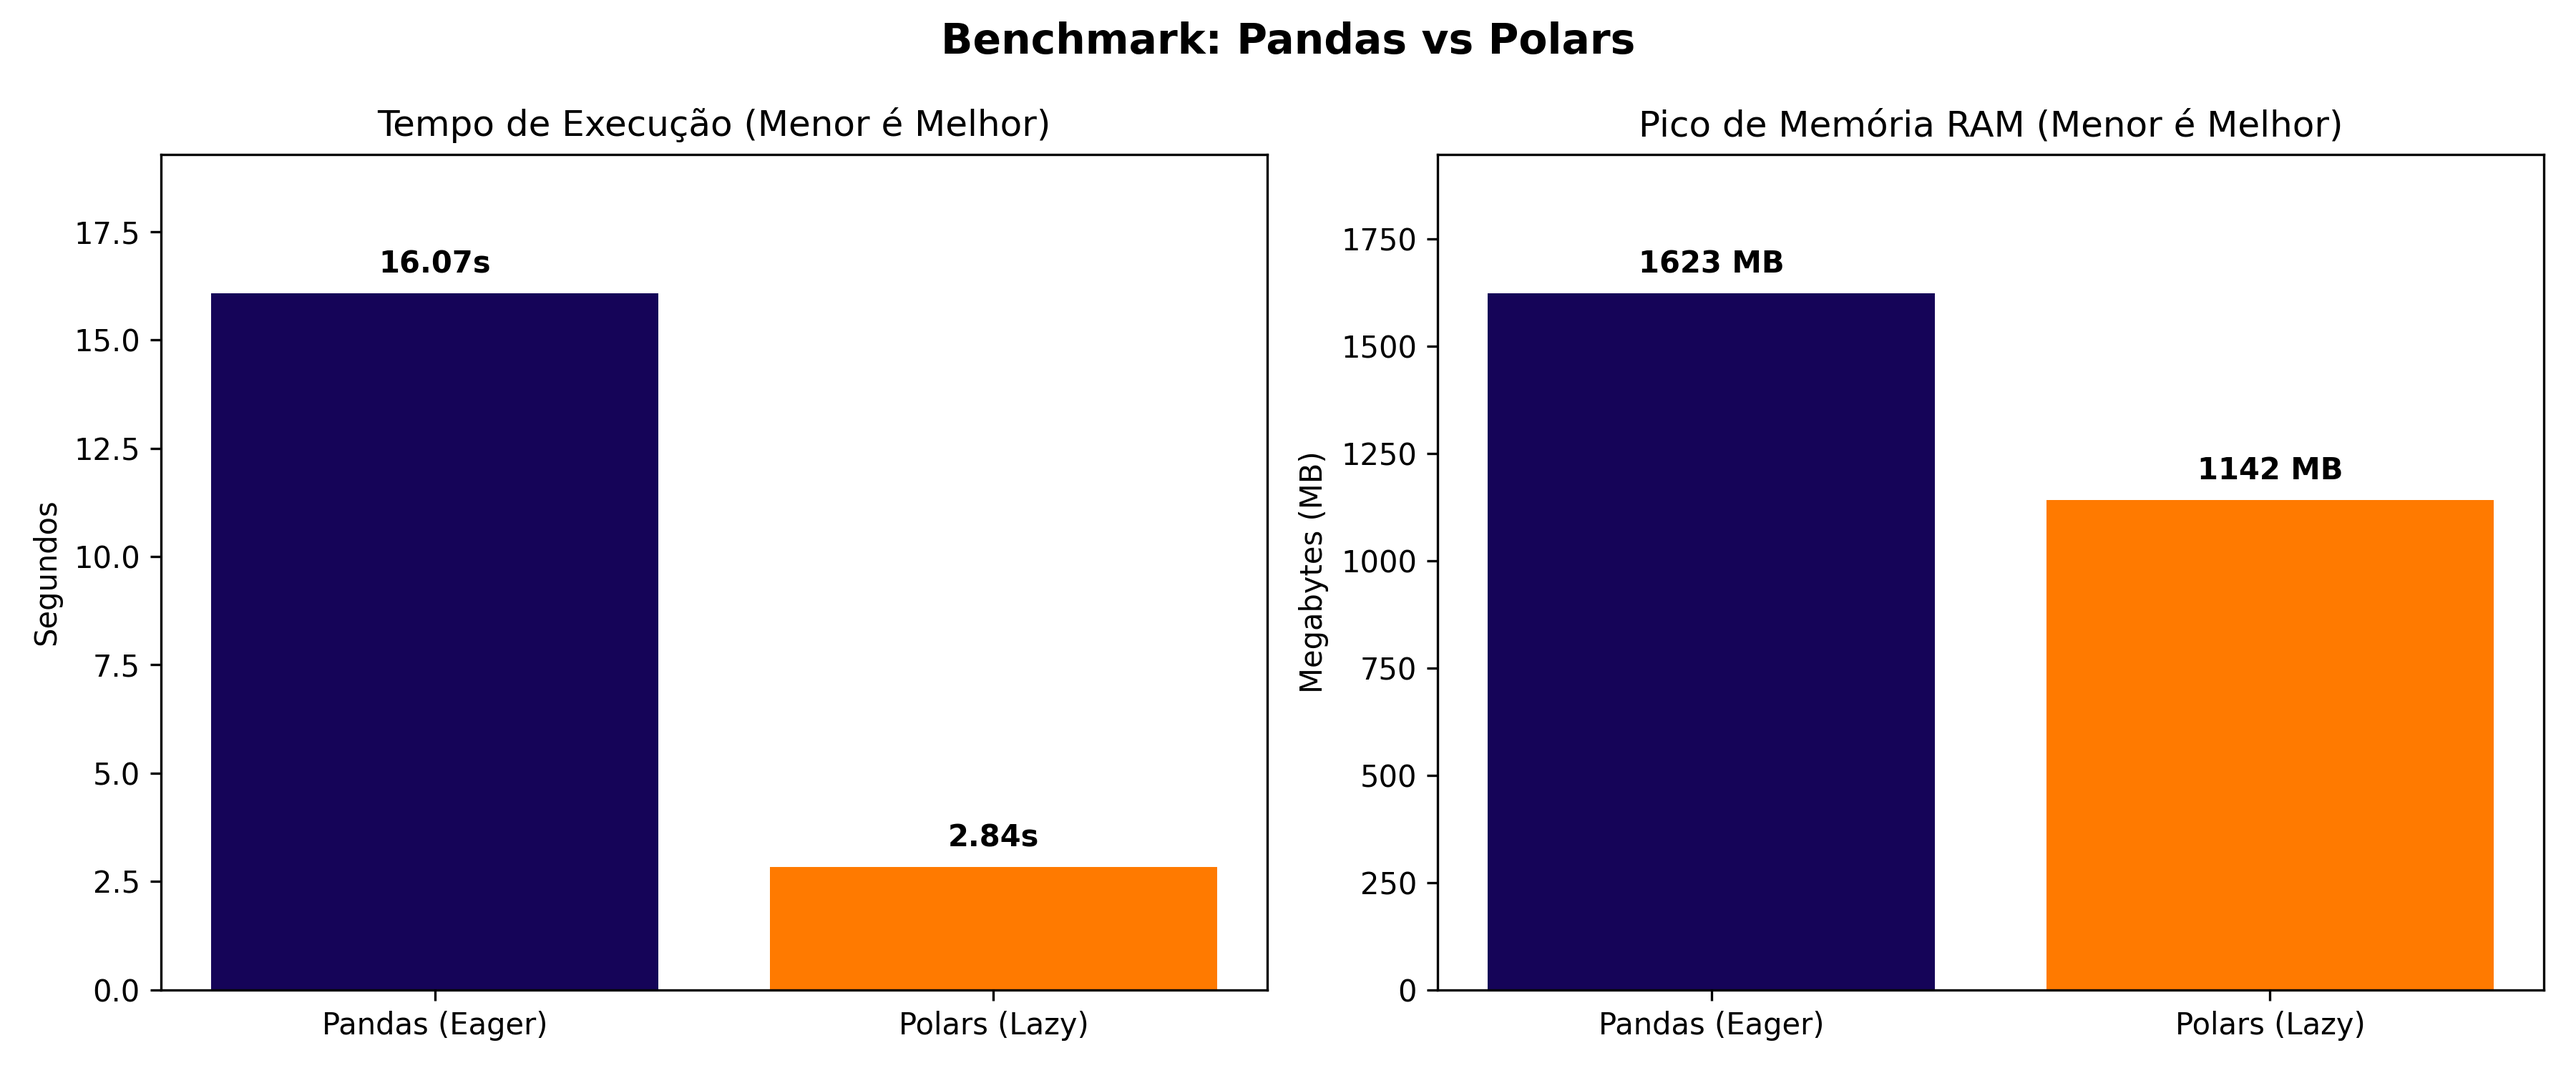
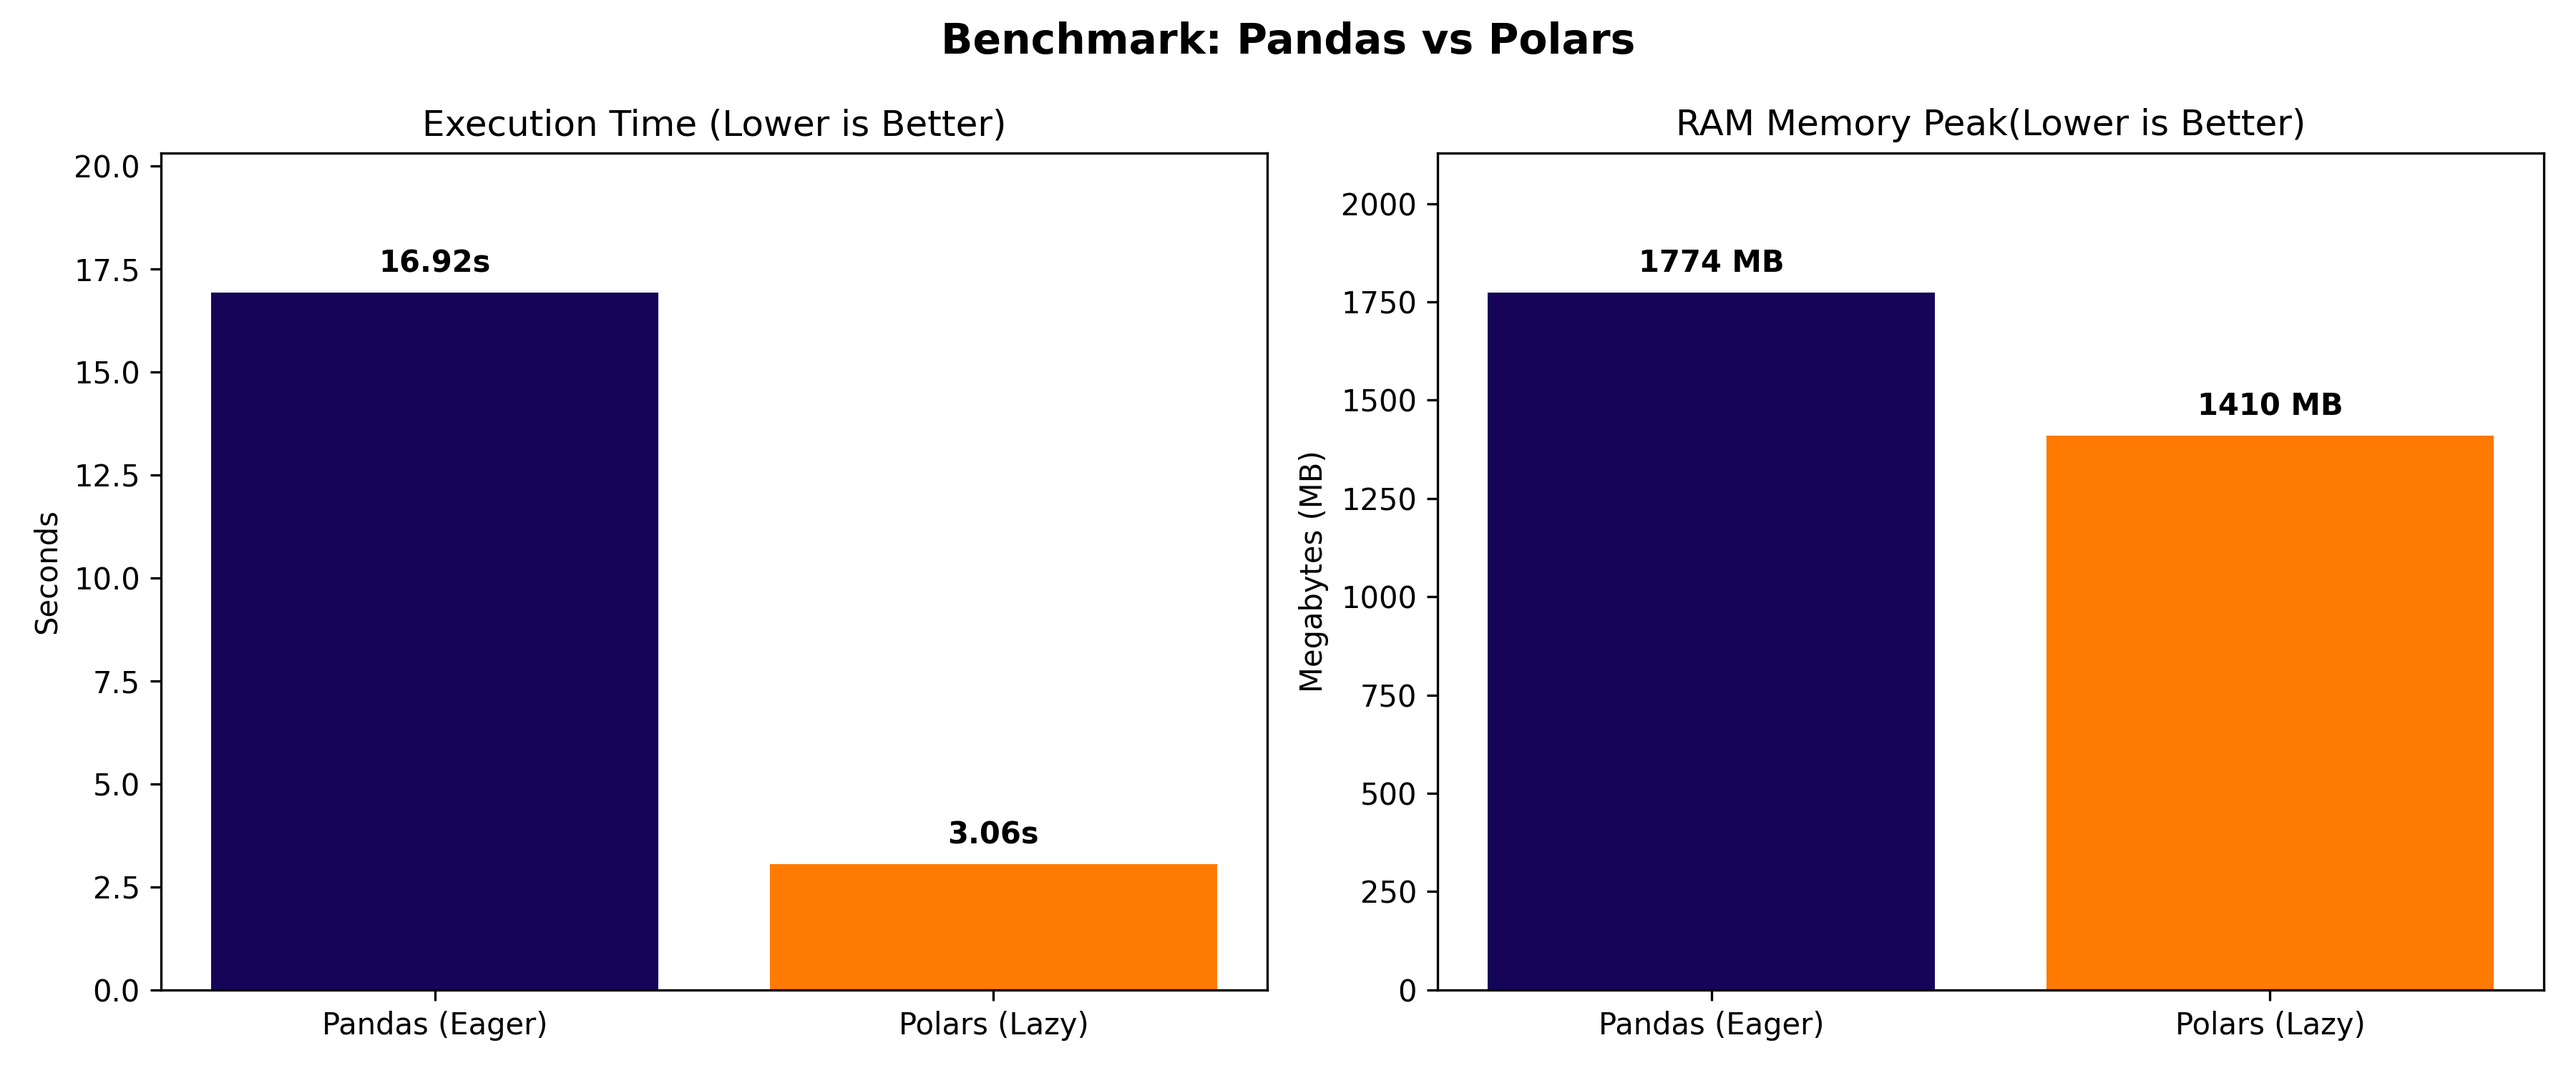
feat: alter README.md file

diff --git a/README.md b/README.md
@@ -19,8 +19,8 @@ Below is the chart automatically generated by the benchmark script, highlighting
 
 ![Benchmark Results](notebooks/benchmark_real_resultado.png)
 
-* **Execution Time:** Polars processed the dataset in **[XX.X]s**, compared to **[XX.X]s** with Pandas.
-* **Memory Consumption (Peak RAM):** Polars used only **[XXX]MB**, while Pandas required **[XXX]MB** of system memory.
+* **Execution Time:** Polars processed the dataset in **[16.92]s**, compared to **[3.06]s** with Pandas.
+* **Memory Consumption (Peak RAM):** Polars used only **[1774]MB**, while Pandas required **[1410]MB** of system memory.
 
 ## 💼 Business Impact
 Adopting Apache Arrow and Lazy Evaluation through Polars is not just a syntax improvement; it is an architectural shift that generates direct business value:
@@ -28,7 +28,7 @@ Adopting Apache Arrow and Lazy Evaluation through Polars is not just a syntax im
 * **Agility in Decision Making:** Reducing processing time from hours to minutes ensures that business stakeholders and Machine Learning models receive updated data much faster, mitigating operational bottlenecks.
 
 ## 🛠 Tech Stack
-* **Python 3.11+**
+* **Python 3.12+**
 * **Polars** (Lazy evaluation & Zero-copy memory)
 * **Pandas** (Baseline for comparison)
 * **Matplotlib & Memory-Profiler** (Performance measurement and visualization)
